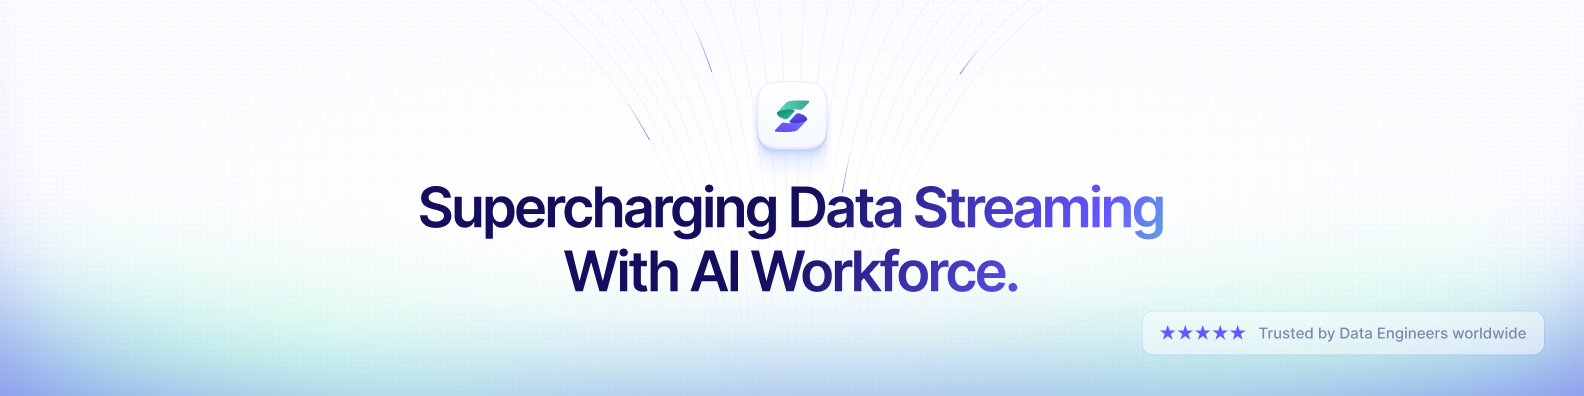
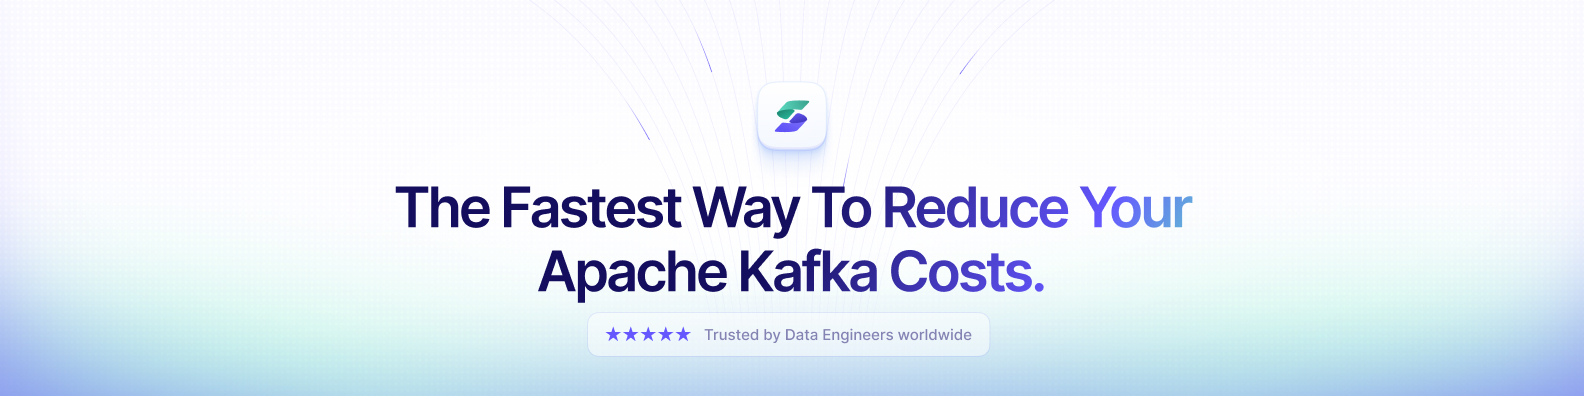
GITBOOK-234: No subject

Changed region(s): [[0.2475, 0.4545, 0.7734, 0.7576], [0.7115, 0.7879, 0.9899, 0.9091], [0.3712, 0.8182, 0.6187, 0.9091]]

diff --git a/getting-started/step-4-connect-your-clients/python.md b/getting-started/step-4-connect-your-clients/python.md
@@ -1,21 +1,24 @@
 # Python
 
-- Superstream Python package is a replacement for [confluent-kafka](https://github.com/confluentinc/confluent-kafka-python) package.
-- Your app can only use one of the packages at a time. Adding both to the same app will cause the Superstream package to be ignored.
-- To use the Superstream package in your app, it must be the sole package in use.
-- Always use the [latest release](https://github.com/superstreamlabs/confluent-kafka-python/releases/).
+* Superstream Python package is a replacement for [confluent-kafka](https://github.com/confluentinc/confluent-kafka-python) package.
+* Your app can only use one of the packages at a time. Adding both to the same app will cause the Superstream package to be ignored.
+* To use the Superstream package in your app, it must be the sole package in use.
+* Always use the [latest release](https://github.com/superstreamlabs/confluent-kafka-python/releases/).
 
 ## Installation
+
 ### Step 1: Package installation
 
 **Using pip**
 
-    $ pip install superstream-confluent-kafka
+```
+$ pip install superstream-confluent-kafka
+```
 
-**NOTE:** You must install `librdkafka` and its dependencies using
-          the repositories below.
+**NOTE:** You must install `librdkafka` and its dependencies using the repositories below.
 
 **Install `librdkafka` on Mac OS**
+
 ```bash
 # Install librdkafka from homebrew
 brew install librdkafka
@@ -26,6 +29,7 @@ export LIBRARY_PATH="/opt/homebrew/lib"
 ```
 
 **Install `librdkafka` on RedHat, CentOS, Fedora, etc**
+
 ```bash
 #
 # Perform these steps as the root user (e.g., in a 'sudo bash' shell)
@@ -49,6 +53,7 @@ yum install -y librdkafka-devel
 ```
 
 **Install `librdkafka` on Debian or Ubuntu**
+
 ```bash
 #
 # Perform these steps as the root user (e.g., in a 'sudo bash' shell)
@@ -71,28 +76,30 @@ apt install -y librdkafka-dev
 
 ### Step 2: Configuration
 
-To fully utilize the Superstream package's capabilities, it is essential to set the environment variables provided in the table below before initializing the package. 
-The Superstream package will function as a standard confluent-kafka package in the following scenarios:
-- When a required environment variable is not configured
-- If Superstream becomes unresponsive
+To fully utilize the Superstream package's capabilities, it is essential to set the environment variables provided in the table below before initializing the package. The Superstream package will function as a standard confluent-kafka package in the following scenarios:
+
+* When a required environment variable is not configured
+* If Superstream becomes unresponsive
 
 **A required env var/s to set**
-| Environment Variable                | Default          | Example  | Required  | Description                                                                                           |
-|-------------------------------------|------------------|-----------|-----------|-------------------------------------------------------------------------------------------------------|
-| `SUPERSTREAM_HOST`                  | -                | engine.superstream.org.com       | Yes       | Specify the host URL of the Superstream service to connect to the appropriate Superstream environment. |
+
+| Environment Variable | Default | Example                    | Required | Description                                                                                            |
+| -------------------- | ------- | -------------------------- | -------- | ------------------------------------------------------------------------------------------------------ |
+| `SUPERSTREAM_HOST`   | -       | engine.superstream.org.com | Yes      | Specify the host URL of the Superstream service to connect to the appropriate Superstream environment. |
 
 **Optional env var/s for enhanced capabilities**
 
-| Environment Variable                | Default          | Example  | Required  | Description                                                                                           |
-|-------------------------------------|------------------|-----------|-----------|-------------------------------------------------------------------------------------------------------|
-| `SUPERSTREAM_TOKEN`                 | -                | 096cc4891d91034272fbc3dae2a53ad4       | No        | This authentication token is required when the engine is configured to work with local authentication, to securely access the Superstream services. |
-| `SUPERSTREAM_TAGS`                  | -     | {"config":"dev","owner":"bi_app"}       | No        | Set this variable to tag the client. This value of this variable should be a valid JSON string.            |
-| `SUPERSTREAM_DEBUG`                 | False            | True       | No        | Set this variable to true to enable Superstream logs. By default, there will not be any Superstream related logs. |
-| `SUPERSTREAM_RESPONSE_TIMEOUT`       | 3000            | Yes       | No        | Set this variable to specify a timeout in milliseconds to wait for the Superstream service response.         |
+| Environment Variable           | Default | Example                            | Required | Description                                                                                                                                         |
+| ------------------------------ | ------- | ---------------------------------- | -------- | --------------------------------------------------------------------------------------------------------------------------------------------------- |
+| `SUPERSTREAM_TOKEN`            | -       | 096cc4891d91034272fbc3dae2a53ad4   | No       | This authentication token is required when the engine is configured to work with local authentication, to securely access the Superstream services. |
+| `SUPERSTREAM_TAGS`             | -       | {"config":"dev","owner":"bi\_app"} | No       | Set this variable to tag the client. This value of this variable should be a valid JSON string.                                                     |
+| `SUPERSTREAM_DEBUG`            | False   | True                               | No       | Set this variable to true to enable Superstream logs. By default, there will not be any Superstream related logs.                                   |
+| `SUPERSTREAM_RESPONSE_TIMEOUT` | 3000    | Yes                                | No       | Set this variable to specify a timeout in milliseconds to wait for the Superstream service response.                                                |
 
 ### Step 3: Validation
-- Option 1: Through Superstream console. Go to Connected clusters -> Cluster X -> Clients
-- Option 2: Turn on DEBUG MODE.
+
+* Option 1: Through Superstream console. Go to Connected clusters -> Cluster X -> Clients
+* Option 2: Turn on DEBUG MODE.
 
 ### Basic Producer Example
 
@@ -123,10 +130,7 @@ for data in some_data_source:
 p.flush()
 ```
 
-For a discussion on the poll based producer API, refer to the
-[Integrating Apache Kafka With Python Asyncio Web Applications](https://www.confluent.io/blog/kafka-python-asyncio-integration/)
-blog post.
-
+For a discussion on the poll based producer API, refer to the [Integrating Apache Kafka With Python Asyncio Web Applications](https://www.confluent.io/blog/kafka-python-asyncio-integration/) blog post.
 
 ### Basic Consumer Example
 

diff --git a/README.md b/README.md
@@ -1,6 +1,6 @@
 ---
 description: Agnetic Data Engineering Platform
-cover: .gitbook/assets/Gitbook (2).jpg
+cover: .gitbook/assets/Gitbook.jpg
 coverY: 0
 layout:
   cover:
@@ -20,23 +20,19 @@ layout:
 
 # Superstream
 
-## Welcome aboard!
+## The problem
 
-Superstream AI-Workforce helps companies of all sizes boost data engineering productivity and offloads three main infrastructure challenges in the modern streaming stack: Workload optimization, control, and security, starting with Kafka of all flavors.
+Engineering teams often lack the time, expertise, or tooling to optimize Kafka costs effectively. Cost reduction requires deep visibility into low-level internals, analyzing complex usage patterns over time, safely experimenting without risking data, accurately forecasting capacity needs, and building custom scripts — all of which demand a level of maturity and focus most teams can't afford amid competing priorities.
 
-### Superstream for Kafka
+## Introducing Superstream
 
-* Costs: Reduce usage costs by up to 80%. That includes the storage, computing, reading, and writing.
-* Control: Resolve issues faster than ever. Superstream agents will cross inputs and metadata from various locations to identify current or potential risks and anomalies and ensure you pay attention to what matters now or in the near future.
-* Security: Data masking, BYOK, and temp visibility.
+Superstream AI Platform Helps Kafka Users Easily, Safely, and Automatically Improve Their Very Own Apache Kafka Cost Efficiency by up to 90%! Reduce usage costs by up to 80%. That includes the storage, computing, reading, and writing.
 
 #### Common use cases:
 
 * Reduce Kafka Usage Costs: Optimizing your cluster resources to align with your workload can cut costs by up to 80%.
 * Increase Control: Enforce best practices and get valuable insights to ensure your Kafka runs at peak health.
-* Detect Issues Faster: Superstream automatically identifies the root cause by analyzing multiple factors and signals.
 * Avoid Migrating To A Different Kafka: Migration is often driven by cost or visibility—now, you can have both with your current vendor.
 * Reduce Transfer Costs: By sampling your payload, Superstream can analyze and benchmark it to recommend ways to reduce the transfer footprint.
-* Tiered Storage Enabler: Reduce storage costs by using Superstream to enable and manage your tiered storage policy.
 
 <figure><img src=".gitbook/assets/Screenshot 2025-01-15 at 8.56.51.png" alt=""><figcaption></figcaption></figure>
